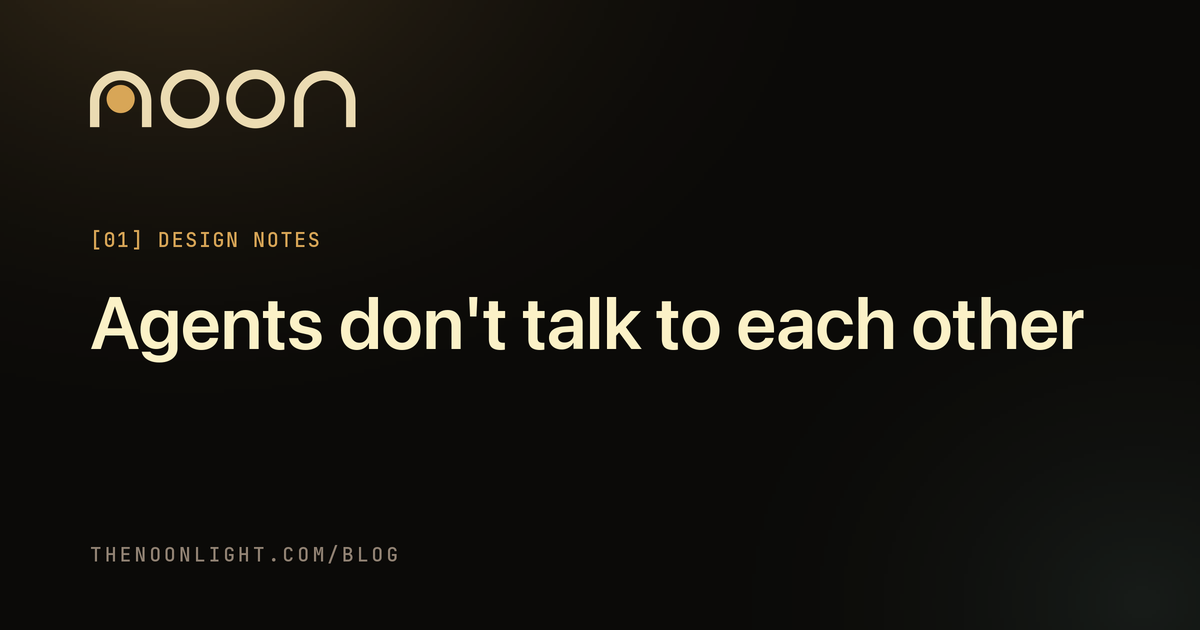
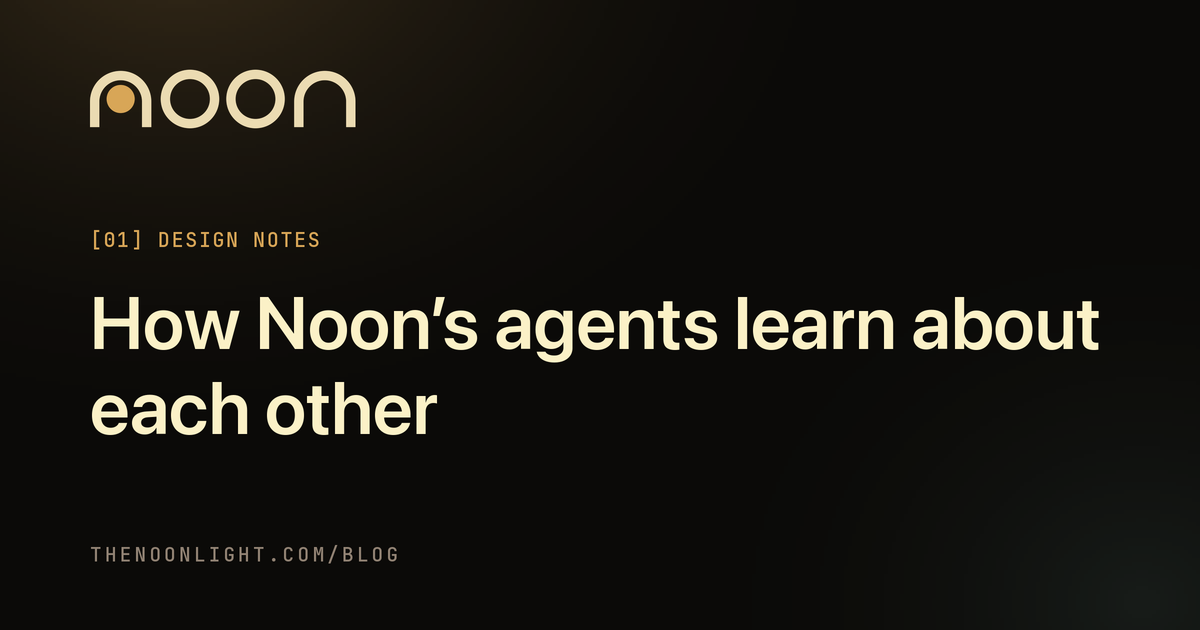
Blog: the first post's title is the user's choice, "How Noon's agents learn about each other"
Title and standfirst option 2 (the user, November 20); the address stays
/blog/agents-dont-talk-to-each-other/. Index, feed and preview card follow.

Checks: check-site.py exit 0.

Changed region(s): [[0.0617, 0.4524, 0.925, 0.573], [0.0617, 0.6032, 0.37, 0.6937]]

diff --git a/blog/agents-dont-talk-to-each-other/index.html b/blog/agents-dont-talk-to-each-other/index.html
@@ -5,11 +5,11 @@
 <meta name="viewport" content="width=device-width, initial-scale=1, viewport-fit=cover">
 <meta name="theme-color" content="#0f0e0c">
 <meta name="color-scheme" content="dark">
-<title>Agents don’t talk to each other · Noon</title>
+<title>How Noon’s agents learn about each other · Noon</title>
 <meta name="description" content="Why Noon’s agents never message each other, what Noon tells them instead, and what our own runs did and didn’t show.">
 <link rel="canonical" href="https://thenoonlight.com/blog/agents-dont-talk-to-each-other/">
 <meta property="og:site_name" content="Noon">
-<meta property="og:title" content="Agents don’t talk to each other">
+<meta property="og:title" content="How Noon’s agents learn about each other">
 <meta property="og:description" content="Why Noon’s agents never message each other, what Noon tells them instead, and what our own runs did and didn’t show.">
 <meta property="og:type" content="article">
 <meta property="og:url" content="https://thenoonlight.com/blog/agents-dont-talk-to-each-other/">
@@ -18,7 +18,7 @@
 <meta property="og:image:height" content="630">
 <meta property="article:published_time" content="2026-11-20">
 <meta name="twitter:card" content="summary_large_image">
-<meta name="twitter:title" content="Agents don’t talk to each other">
+<meta name="twitter:title" content="How Noon’s agents learn about each other">
 <meta name="twitter:description" content="Why Noon’s agents never message each other, what Noon tells them instead, and what our own runs did and didn’t show.">
 <meta name="twitter:image" content="https://thenoonlight.com/blog/agents-dont-talk-to-each-other/og.png?v=1">
 <link rel="icon" href="/favicon.png" type="image/png" sizes="64x64">
@@ -31,7 +31,7 @@
 {
   "@context": "https://schema.org",
   "@type": "BlogPosting",
-  "headline": "Agents don’t talk to each other",
+  "headline": "How Noon’s agents learn about each other",
   "description": "Why Noon’s agents never message each other, what Noon tells them instead, and what our own runs did and didn’t show.",
   "datePublished": "2026-11-20",
   "dateModified": "2026-11-20",
@@ -53,8 +53,8 @@
   <main>
     <article>
       <p class="label">[01] Design notes</p>
-      <h1>Agents don’t talk to each other</h1>
-      <p class="standfirst">Several coding agents on one repository need to know what the others are doing. We could have let them message each other. Here is why Noon tells them the facts instead, and what our own runs did and didn’t show.</p>
+      <h1>How Noon’s agents learn about each other</h1>
+      <p class="standfirst">When two agents work on one codebase, something has to know what both are doing. In Noon that is Noon, and it tells each agent a little, when it matters. The design, the research behind it, and our own numbers.</p>
       <p class="byline"><span>Snehith Nayak</span><span><time datetime="2026-11-20">November 20, 2026</time></span><span>11 min read</span></p>
 
       <div class="prose">

diff --git a/blog/index.html b/blog/index.html
@@ -54,7 +54,7 @@
 <!-- POSTS: newest first -->
       <li><a href="/blog/agents-dont-talk-to-each-other/">
         <span class="num">[01] Design notes</span>
-        <h2>Agents don’t talk to each other</h2>
+        <h2>How Noon’s agents learn about each other</h2>
         <p>Why Noon’s agents never message each other, what Noon tells them instead, and what our own runs did and didn’t show.</p>
         <span class="meta"><time datetime="2026-11-20">November 20, 2026</time> · 11 min read</span>
       </a></li>
